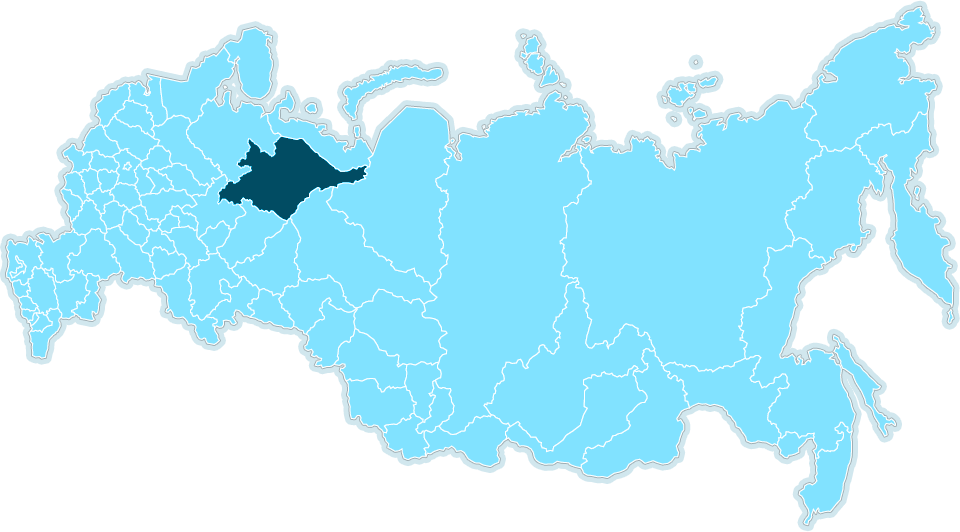
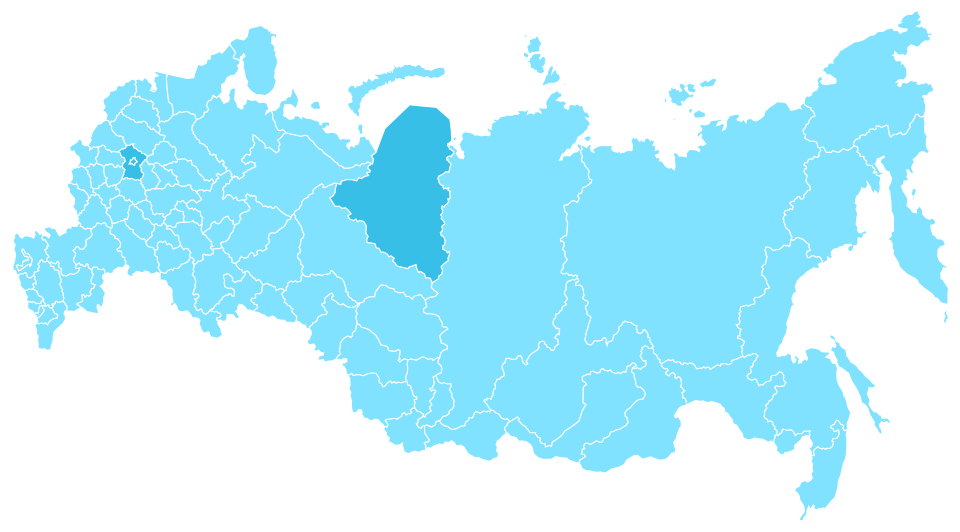
add admin map regions

diff --git a/mapAdministrative.html b/mapAdministrative.html
@@ -26,23 +26,21 @@
 	<div id="mapAdministrative">
         <img src="uploads/map_administr_transparent.png" usemap="#russia" alt="map"  />
         <map name="russia" id="russia">
-           
-
-            <area id="komiRepublic" shape="poly" href="#" alt="area" coords="337,169,335,167,330,164,320,156,317,152,313,150,303,139,299,137,295,138,290,137,285,136,281,135,278,136,274,140,274,145,273,150,272,155,268,152,264,149,259,151,260,147,256,144,252,140,248,137,246,142,248,147,246,150,244,155,241,156,238,160,236,164,240,167,244,164,249,165,248,170,243,172,239,176,236,180,232,182,232,180,230,180,227,181,225,183,224,186,222,187,220,189,218,193,218,197,217,202,220,201,221,198,224,198,227,200,231,200,233,203,236,202,240,202,241,200,240,198,242,197,245,198,250,198,250,202,254,205,258,208,262,208,266,210,270,209,274,212,277,215,281,217,285,219,288,217,290,214,293,212,295,208,296,205,298,202,301,199,303,197,307,195,308,192,309,190,315,187,318,186,319,190,321,188,326,187,331,185,335,185,335,183,338,182,341,181,346,181,351,182,353,180,356,179,359,178,362,177,363,175,365,173,364,170,363,168,365,165,363,164,360,164,358,165,356,165,354,168,352,166,349,168,344,170,341,170">
-            <area id="moscow" shape="poly" href="#" alt="area" coords="126,148,125,148,124,147,123,148,121,149,118,149,116,152,113,152,112,155,114,160,118,164,116,167,114,169,117,173,116,178,115,183,119,181,125,182,129,183,135,183,136,179,135,175,134,173,133,170,134,169,134,166,136,164,138,162,139,159,137,157,135,156,133,155,131,153,129,152,127,151">
+            <area id="yamala" shape="poly" href="#" alt="area" coords="435,106,409,104,384,128,375,151,370,152,372,156,371,162,367,163,366,165,369,169,366,170,366,174,359,176,357,175,354,177,350,177,344,178,340,178,339,182,336,181,334,189,328,195,334,204,339,204,340,206,344,205,350,211,347,214,351,218,355,217,360,219,365,223,365,231,367,235,365,240,374,241,375,245,380,249,386,251,387,255,391,254,392,258,396,263,406,266,415,263,418,270,424,272,425,276,431,280,437,277,438,274,442,269,440,264,446,258,448,250,442,247,441,244,443,236,439,233,441,227,440,224,443,221,440,217,440,213,441,205,446,202,447,197,448,192,447,188,442,187,442,184,438,181,437,176,441,173,445,169,448,165,449,161,446,157,447,155,451,152,451,149,448,146,446,143,448,141,450,136,450,119,439,109">
+            <area id="moscow" shape="poly" href="#" alt="area" coords="132,143,130,142,128,143,125,143,123,146,120,146,118,149,119,154,122,157,122,161,121,163,122,168,122,173,120,177,126,176,131,177,134,178,139,178,140,175,142,172,140,169,140,167,139,163,141,160,144,157,146,154,142,152,140,151,138,149,136,147">
         </map>  
 
         <ul>
-		<li id="komiRepublicInfo" data-top="120" data-left="218">
-			<img src="uploads/hover-region.png" alt="img" />
-			<img src="uploads/active-region.png" alt="img" class="active" />
+		<li id="yamalaInfo" data-top="88" data-left="329">
+			<img src="uploads/hover-region-yamalo.png" alt="img" />
+			<img src="uploads/active-region-yamalo.png" alt="img" class="active" />
 			<div>
 				<h2>Какая-то область</h2>
 				<p>а тут чето еще</p>
 				<span></span>
 			</div>
 		</li>
-		<li id="moscowInfo" data-top="128" data-left="110">
+		<li id="moscowInfo" data-top="126" data-left="117">
 			<img src="uploads/hover-region-moscow.png" alt="img" />
 			<img src="uploads/active-region-moscow.png" alt="img" class="active" />
 			<div>

diff --git a/GTG help script/test.html b/GTG help script/test.html
@@ -11,8 +11,8 @@
 <body>
 
     <div id="img-container">
-        <img src="map-admin.png" usemap="#ukraine" alt="Ukraine" width="960" height="532">
-        <map name="ukraine" id="ukraine">
+        <img src="map-admin.png" usemap="#russia" alt="Russia" width="960" height="532">
+        <map name="russia" id="russia">
             <area shape="poly" href="#" alt="area" coords="574,101,572,116,571,133,571,153,580,169,595,175,607,178,609,194,626,199,642,193,655,196,673,207,689,207,703,209,709,204,724,191,726,165,724,156,717,140,713,132,718,119,720,115,724,102,724,92,722,86,721,75,724,70,732,62,737,57,738,53,738,44,731,31,734,23,734,19,720,19,718,25,706,31,701,30,685,26,675,26,675,37,675,37,661,49,651,53,642,45,626,49,621,49,610,50,590,52,589,61,577,69,572,78,570,94">
         </map>       
     </div>
